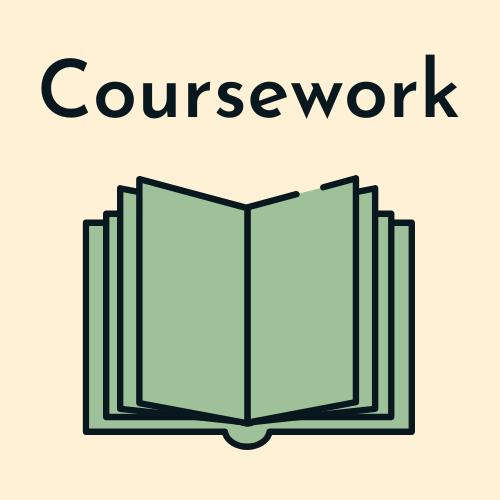
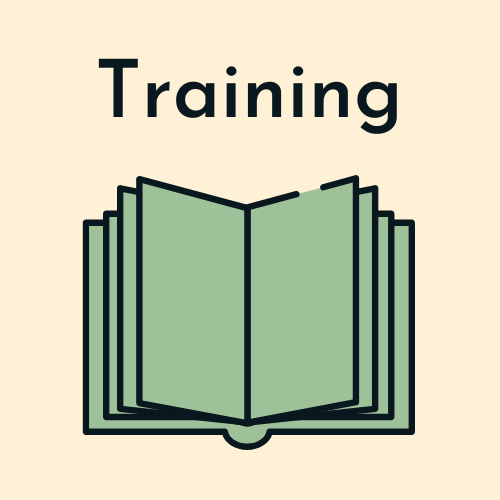
Add files via upload

Changed region(s): [[0.06, 0.09, 0.93, 0.27]]

diff --git a/portfolio/games.html b/portfolio/games.html
@@ -62,6 +62,65 @@
         </header>
 
         <main class="text">
+            <h2 class="gameTitle" >Adroit Studios Projects</h2>
+
+            <p class="main_link">Adroit Studios is a serious game lab associated with the University of Missouri. For more information about the studio click <a href="https://adroit.missouri.edu/" target="blank">here</a>.</p>
+
+            <div class="GameFlexbox">
+                <img class= "gamepic1" src="Projects/Project Images/adroit.png" alt="Adroit Studios Logo">
+            </div>
+
+            <h3>vSchool</h3>
+
+            <h4>Description:</h4>
+
+            <p>An interactive behavioral assessment where middle school students navigate an after-school program and make 
+                decisions that test their social skills.</p>
+
+            <h4>My Role:</h4>
+
+            <p>I worked as the primary narrative writer on this project, teaming up with prosocial
+                behavioral experts to design a story and dialogue that would feel realistic to middle schoolers, 
+                incorporate fun, interactive activities, and test students' ability to have positive social interactions. Additionally,
+                I created storyboards and character profiles for the developers and artists. 
+            </p>
+
+            <h3>Mission Hydrosci</h3>
+
+            <h4>Description:</h4>
+
+            <p>Students are placed in the role of junior scientists tasked with colonizing an alien planet, WAT247.
+                They must explore uncharted lands and learn about the planet's water systems to solve mysteries and pave the way 
+                for survival. Throughout gameplay, students gain an understanding of the role of water in socio-ecological systems & how to build a convincing 
+                scientific argument.
+            </p>
+            
+            <h4>My Role:</h4>
+
+            <p>I aided in the re-design of Mission Hydrosci to better meet the needs of students and educators. My primary role was as
+                a consultant to ensure curriculum alignment and aid in improving the game design to more effectively meet science 
+                learning goals. I also assisted in re-designing teacher documentation to enable educators to more effectively implement the 
+                game into their classrooms. 
+            </p>
+
+            <h3>Kaldi's Human Resources Simulation</h3>
+
+            <h4>Description:</h4>
+
+            <p>This simulation is an expansion of an existing Adroit project that provides undergraduate students
+                with the opportunity to virtually manage a coffee shop. In the original simulation, students must manage store
+                inventory, set prices, create employee schedules, and more to successfully turn a profit. The human
+                resources expansion seeks to give students the opportunity to interview and hire employees, manage common
+                personelle issues, and encounter the social aspects of running a business. 
+            </p>
+
+            <h4>My Role:</h4>
+
+            <p>I worked to create the initial storyboards and user interface for this project. Additionally, I created
+            extensive character profiles and outline narrative developments for gameplay. 
+            </p>
+
+            <br>
 
             <h2 class="gameTitle" >Fossil Quest</h2>
 

diff --git a/portfolio/digitalart.html b/portfolio/digitalart.html
@@ -64,6 +64,31 @@
         </header>
 
         <main class="text">
+            <h2 class="YellowTitle">3D Modeling</h2>
+
+            <h3>Description</h3>
+
+            <p>The three projects below were created in Blender as part of an 8 week introductory
+               course on 3D modeling for games. 
+            </p>
+
+            <div class="ArtFlexbox">
+                <img class= "threed" src="Projects/Project Images/GameObjects.png" alt="Game Object Image">
+                <img class= "threed" src="Projects/Project Images/camp.png" alt="Camp Scene Image">
+            </div>
+
+            <div class ="ArtFlexbox" class="threed2"><iframe width="560" height="315" src="https://www.youtube.com/embed/GJx_LxZCAPo" title="YouTube video player" frameborder="0" allow="accelerometer; autoplay; clipboard-write; encrypted-media; gyroscope; picture-in-picture" allowfullscreen></iframe>
+            </div>
+
+            <h3>Original File Links & Licensing</h3>
+
+            <ul class="main_link">
+                <li>Desk Objects: <a href="https://drive.google.com/file/d/1THE1SkLq_ilZJ_t59a3xftbs_BSofZOf/view?usp=sharing" target="blank">Download File</a></li>
+                <li>Campground: <a href="https://drive.google.com/file/d/1OeIg53lRyHCZwlTZN31GMhfcOb2Y4c5c/view?usp=sharing" target="blank">Download File</a></li>
+                <li>Box Man: <a href="https://drive.google.com/file/d/14KuaD5SwU5AnHK1VNmyhAM10QtIDw56I/view?usp=sharing" target="blank">Download File</a></li>
+                <li>Textures from <a href="https://www.blenderkit.com/" target="blank">BlenderKit</a></li>
+            </ul>
+            
             <h2 class="YellowTitle">Photoshop/Illustrator Examples</h2>
 
             <h3>Introduction and Learning Objective</h3>

diff --git a/portfolio/index.html b/portfolio/index.html
@@ -57,13 +57,15 @@
                     <header class="htitle">
                         <h1 id="welcome">Welcome!</h1>
                     </header>
+
+                    <img id="Erin" src="Images/profilepic.png" alt= "Photo of Erin Weaver">
                     
                     <p class="htext">
                         I’m Erin Weaver, a Learning Experience Designer
                         <br> passionate about making education fun. 
                     </p>
 
-                    <img id="Erin" src="Images/profilepic.png" alt= "Photo of Erin Weaver">
+                    
                 </div>
                 
                 <div id="welcomeText">
@@ -73,7 +75,7 @@
         
                             <a href="projects.html"><img class="home_pic" src="Images/projects.png" alt= "Projects"></a> 
         
-                            <a href="program.html"><img class="home_pic" src="Images/coursework.png" alt= "Coursework"></a> 
+                            <a href="training.html"><img class="home_pic" src="Images/coursework.png" alt= "Coursework"></a> 
                         </div>
                     </div>
                 </div>

diff --git a/portfolio/style.css b/portfolio/style.css
@@ -171,6 +171,7 @@ h3{
 #welcome{
     color: #182518;
     font-family: 'Josefin sans', sans-serif;
+    margin-bottom: 0px; 
 }
 
 .content-box{
@@ -424,6 +425,22 @@ table, th, td{
 }
 
 /*Full-Sized Digital Art Page*/
+.ArtFlexbox{
+    display: flex;
+    flex-direction: row;
+    justify-content: space-evenly;
+    margin: 35px; 
+}
+
+.threed{
+    width: 40%; 
+}
+
+.threed2{
+    width: 10%; 
+}
+
+
 .artpic{
     width: 25%;
 }
